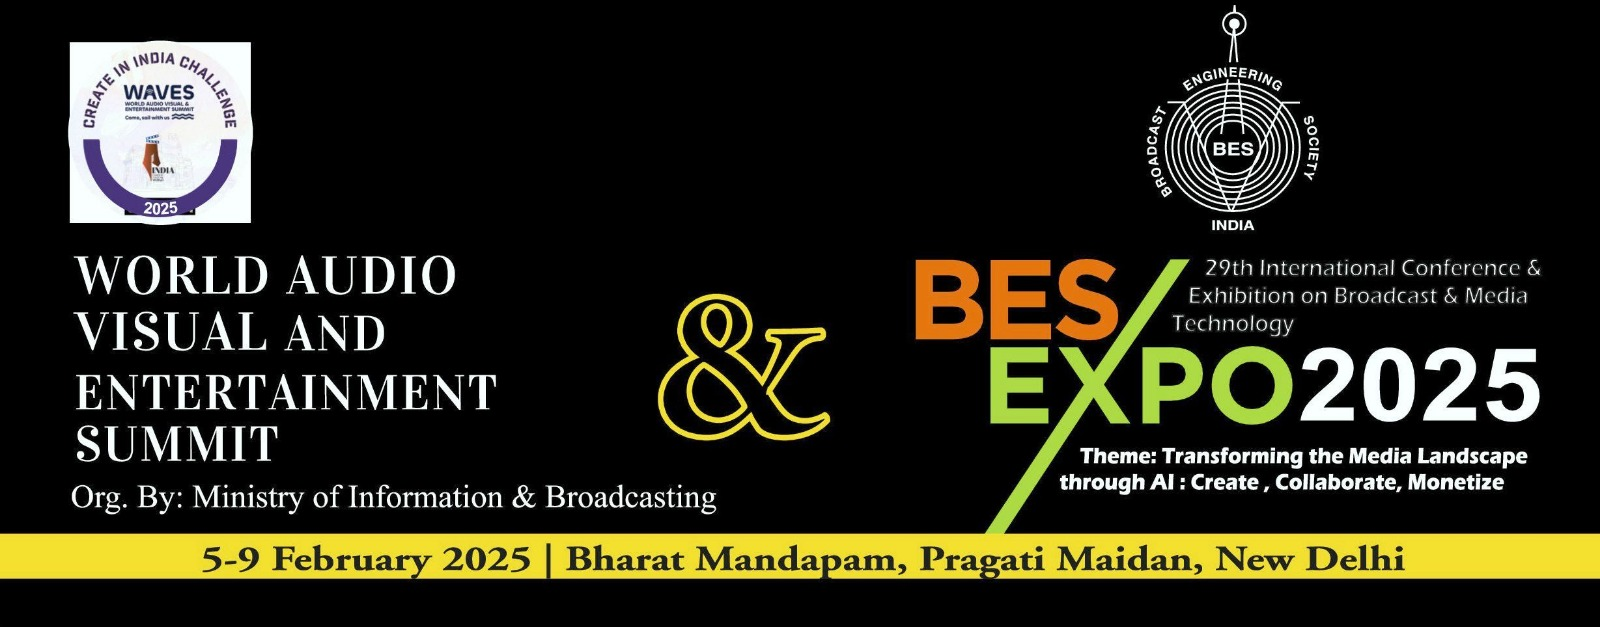
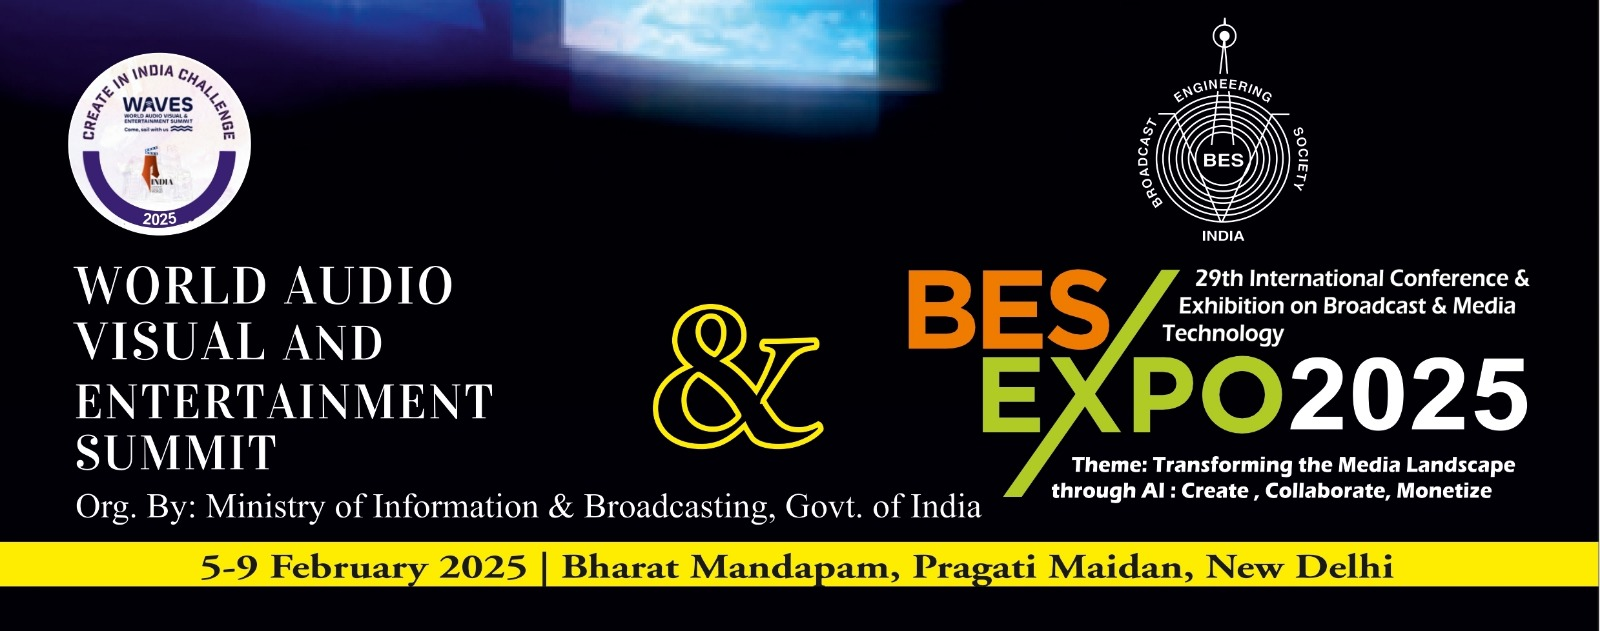
change event image

diff --git a/app/event_conference/bes_expo/exibition/sponsorship_opportunities/page.jsx b/app/event_conference/bes_expo/exibition/sponsorship_opportunities/page.jsx
@@ -1,5 +1,20 @@
 import React from "react";
 
 export default function page() {
-  return <div>Sponsorship Opportunities</div>
+  return (
+    <div
+      className={"flex flex-col max-w-[800px] p-4 " + styles.content_container}
+    >
+      <h2 className="text-[26px] font-bold">History</h2>
+
+      <div>
+        <p>
+          Sponsorship opportunities at the expo are generally in great demand.
+          Exhibitors/Sponsorer desirous of sponsoring any of the above
+          activities/item(s) are requested to contact Broadcast Engineering
+          Society (India) immediately on [email redacted].
+        </p>
+      </div>
+    </div>
+  );
 }